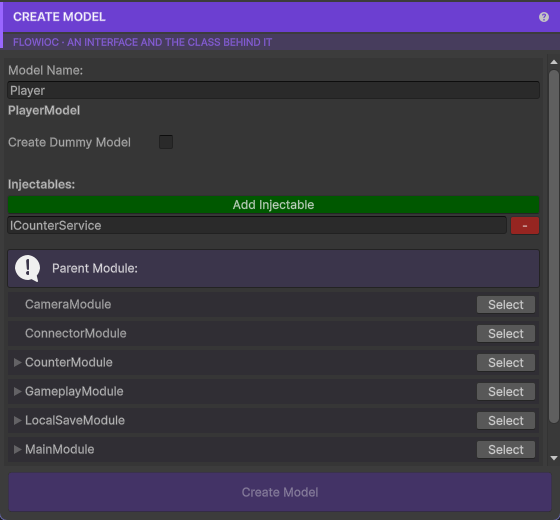
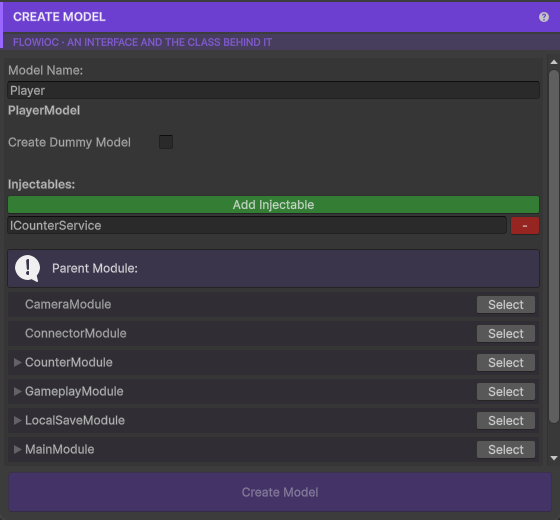
fix: an add button is green rather than nearly black
Color.green is (0, 1, 0) and darkened the same way Color.red did - Add Injectable, Add
Parameter and Add Action measured #005800, darker than the minus beside them ever was.
FlowPalette.ActionAdd lifts the green channel past 1 and the button now reads #337D35.

It is lifted less than ActionRemove and deliberately so: green reads far brighter than
red at the same value, and the add button is a band across the window while the minus is
thirty pixels wide, so matching the numbers would not match what the eye is given.

Danger is renamed ActionRemove so the two share a prefix with the window's own Action
button, and typing it offers the set.

Changed region(s): [[0.0, 0.3692, 0.9714, 0.4308]]

diff --git a/Editor/CodeGenerator/Menus/CreateFunctionMenu.cs b/Editor/CodeGenerator/Menus/CreateFunctionMenu.cs
@@ -152,7 +152,7 @@ namespace FlowIoC.Editor.CodeGenerator.Menus
             EditorGUILayout.LabelField(PARAMETERS_LABEL, EditorStyles.boldLabel);
 
             EditorGUI.BeginDisabledGroup(_parameters.Count >= FunctionScriptWriter.MAX_PARAMETERS);
-            GUI.backgroundColor = Color.green;
+            GUI.backgroundColor = new ModulePanelTheme().ActionAdd;
 
             if (GUILayout.Button(ADD_PARAMETER_BUTTON))
                 _parameters.Add(new FunctionParameter {Type = "int", Name = "value"});
@@ -172,7 +172,7 @@ namespace FlowIoC.Editor.CodeGenerator.Menus
                 _parameters[i].Type = EditorGUILayout.TextField(_parameters[i].Type);
                 _parameters[i].Name = EditorGUILayout.TextField(_parameters[i].Name);
 
-                GUI.backgroundColor = new ModulePanelTheme().Danger;
+                GUI.backgroundColor = new ModulePanelTheme().ActionRemove;
 
                 if (GUILayout.Button("-", GUILayout.Width(30)))
                     removeAt = i;
@@ -191,7 +191,7 @@ namespace FlowIoC.Editor.CodeGenerator.Menus
             EditorGUILayout.Space(10);
             EditorGUILayout.LabelField(INJECTABLES_LABEL, EditorStyles.boldLabel);
 
-            GUI.backgroundColor = Color.green;
+            GUI.backgroundColor = new ModulePanelTheme().ActionAdd;
 
             if (GUILayout.Button(ADD_INJECTABLE_BUTTON))
                 _injectableNames.Add("NewInjectable");
@@ -208,7 +208,7 @@ namespace FlowIoC.Editor.CodeGenerator.Menus
 
                 DisplayInjectableStatus(_injectableNames[i]);
 
-                GUI.backgroundColor = new ModulePanelTheme().Danger;
+                GUI.backgroundColor = new ModulePanelTheme().ActionRemove;
 
                 if (GUILayout.Button("-", GUILayout.Width(30)))
                     removeAt = i;

diff --git a/Editor/Inspector/FlowPalette.cs b/Editor/Inspector/FlowPalette.cs
@@ -78,6 +78,16 @@ namespace FlowIoC.Editor.Inspector
         public Color Strip(Color deep) => new Color(deep.r, deep.g, deep.b, 0.22f);
 
         /// <summary>
+        /// What a button that adds a row to a list is tinted with - Add Injectable, Add Parameter,
+        /// Add Action. It is lifted the same way <see cref="ActionRemove"/> is and for the same
+        /// reason, but by less: green reads far brighter than red at the same value, and the add
+        /// button is a band across the window while the minus beside it is thirty pixels wide, so
+        /// matching the numbers would not match what the eye is given. What is matched is that
+        /// neither button is the near-black <c>Color.green</c> and <c>Color.red</c> came back as.
+        /// </summary>
+        public Color ActionAdd => new Color(0.58f, 1.42f, 0.6f);
+
+        /// <summary>
         /// What a button that takes something away is tinted with - a list row's minus, Delete
         /// Module's Delete.
         ///
@@ -88,7 +98,7 @@ namespace FlowIoC.Editor.Inspector
         /// up instead, which is the same trick <c>ModulePanelTheme.Lifted</c> plays on a panel bar,
         /// and green and blue stay far enough down to keep it red rather than pink.
         /// </summary>
-        public Color Danger => new Color(1.7f, 0.42f, 0.38f);
+        public Color ActionRemove => new Color(1.7f, 0.42f, 0.38f);
 
         public Color Title => Color.white;
 

diff --git a/Editor/CodeGenerator/Menus/Module/ModulePanelTheme.cs b/Editor/CodeGenerator/Menus/Module/ModulePanelTheme.cs
@@ -34,11 +34,14 @@ namespace FlowIoC.Editor.CodeGenerator.Menus.Module
         public Color Action => Header;
 
         /// <summary>
-        /// The minus beside a row the reader can remove, and Delete Module's Delete. It comes from
-        /// the palette rather than from this class, because the same button appears in windows that
-        /// have nothing to do with a module panel.
+        /// The button that adds a row to a list, and the minus that takes one away again. Both come
+        /// from the palette rather than from this class, because the same pair appears in windows
+        /// that have nothing to do with a module panel - and they share the Action prefix so that
+        /// typing it offers the window's own button alongside them.
         /// </summary>
-        public Color Danger => _palette.Danger;
+        public Color ActionAdd => _palette.ActionAdd;
+
+        public Color ActionRemove => _palette.ActionRemove;
 
         /// <summary>
         /// A row's tint: the role's colour, lifted and then washed most of the way back to white.

diff --git a/Editor/CodeGenerator/Menus/CreateCommandMenu.cs b/Editor/CodeGenerator/Menus/CreateCommandMenu.cs
@@ -160,7 +160,7 @@ namespace FlowIoC.Editor.CodeGenerator.Menus
             EditorGUILayout.Space(10);
             EditorGUILayout.LabelField(INJECTABLES_LABEL, EditorStyles.boldLabel);
 
-            GUI.backgroundColor = Color.green;
+            GUI.backgroundColor = new ModulePanelTheme().ActionAdd;
             if (GUILayout.Button(ADD_INJECTABLE_BUTTON))
             {
                 _injectableNames.Add("NewInjectable");
@@ -179,7 +179,7 @@ namespace FlowIoC.Editor.CodeGenerator.Menus
 
                 _injectableNames[i] = EditorGUILayout.TextField(_injectableNames[i]);
 
-                GUI.backgroundColor = new ModulePanelTheme().Danger;
+                GUI.backgroundColor = new ModulePanelTheme().ActionRemove;
 
                 if (GUILayout.Button("-", GUILayout.Width(30)))
                     removeAt = i;

diff --git a/Editor/CodeGenerator/Menus/CreateModelMenu.cs b/Editor/CodeGenerator/Menus/CreateModelMenu.cs
@@ -141,7 +141,7 @@ namespace FlowIoC.Editor.CodeGenerator.Menus
             EditorGUILayout.Space(10);
             EditorGUILayout.LabelField(INJECTABLES_LABEL, EditorStyles.boldLabel);
 
-            GUI.backgroundColor = Color.green;
+            GUI.backgroundColor = new ModulePanelTheme().ActionAdd;
             if (GUILayout.Button(ADD_INJECTABLE_BUTTON))
             {
                 _injectableNames.Add("NewInjectable");
@@ -160,7 +160,7 @@ namespace FlowIoC.Editor.CodeGenerator.Menus
 
                 _injectableNames[i] = EditorGUILayout.TextField(_injectableNames[i]);
 
-                GUI.backgroundColor = new ModulePanelTheme().Danger;
+                GUI.backgroundColor = new ModulePanelTheme().ActionRemove;
 
                 if (GUILayout.Button("-", GUILayout.Width(30)))
                     removeAt = i;

diff --git a/Editor/CodeGenerator/Menus/CreateViewMenu.cs b/Editor/CodeGenerator/Menus/CreateViewMenu.cs
@@ -142,7 +142,7 @@ namespace FlowIoC.Editor.CodeGenerator.Menus
             EditorGUILayout.Space(10);
             EditorGUILayout.LabelField(ACTIONS_LABEL, EditorStyles.boldLabel);
 
-            GUI.backgroundColor = Color.green;
+            GUI.backgroundColor = new ModulePanelTheme().ActionAdd;
             if (GUILayout.Button(ADD_ACTION_BUTTON))
             {
                 _actionNames.Add("NewAction");
@@ -161,7 +161,7 @@ namespace FlowIoC.Editor.CodeGenerator.Menus
 
                 _actionNames[i] = EditorGUILayout.TextField(_actionNames[i]);
 
-                GUI.backgroundColor = new ModulePanelTheme().Danger;
+                GUI.backgroundColor = new ModulePanelTheme().ActionRemove;
 
                 if (GUILayout.Button("-", GUILayout.Width(30)))
                     removeAt = i;

diff --git a/Editor/CodeGenerator/Menus/Module/CreateModule/CreateModuleMenu.Actions.cs b/Editor/CodeGenerator/Menus/Module/CreateModule/CreateModuleMenu.Actions.cs
@@ -8,7 +8,7 @@ namespace FlowIoC.Editor.CodeGenerator.Menus.Module.CreateModule
     {
         private void DisplayActionsSection()
         {
-            GUI.backgroundColor = Color.green;
+            GUI.backgroundColor = new ModulePanelTheme().ActionAdd;
             if (GUILayout.Button(ADD_ACTION))
             {
                 _actionNames.Add(NEW_ACTION);
@@ -39,7 +39,7 @@ namespace FlowIoC.Editor.CodeGenerator.Menus.Module.CreateModule
 
                 _actionNames[ii] = EditorGUILayout.TextField(_actionNames[ii]);
 
-                GUI.backgroundColor = new ModulePanelTheme().Danger;
+                GUI.backgroundColor = new ModulePanelTheme().ActionRemove;
 
                 if (GUILayout.Button("-", GUILayout.Width(30)))
                     removeAt = ii;

diff --git a/Editor/CodeGenerator/Menus/Module/DeleteModule/DeleteModuleMenu.cs b/Editor/CodeGenerator/Menus/Module/DeleteModule/DeleteModuleMenu.cs
@@ -80,7 +80,7 @@ namespace FlowIoC.Editor.CodeGenerator.Menus.Module.DeleteModule
                 DrawKindLabel(module.Type);
                 GUILayout.FlexibleSpace();
 
-                GUI.backgroundColor = new ModulePanelTheme().Danger;
+                GUI.backgroundColor = new ModulePanelTheme().ActionRemove;
                 if (GUILayout.Button("Delete", GUILayout.Width(60)))
                 {
                     if (EditorUtility.DisplayDialog(

diff --git a/Editor/ModelViewer/PropertyDrawer/Properties/ListPropertyDrawer.cs b/Editor/ModelViewer/PropertyDrawer/Properties/ListPropertyDrawer.cs
@@ -260,7 +260,7 @@ namespace FlowIoC.Editor.ModelViewer.PropertyDrawer.Properties
 
             if(CanDeleteItem)
             {
-                GUI.backgroundColor = new FlowPalette().Danger;
+                GUI.backgroundColor = new FlowPalette().ActionRemove;
                 var removeButton = GUILayout.Button("-", GUILayout.Width(15));
                 GUI.backgroundColor = Color.white;
 
